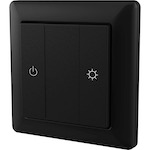
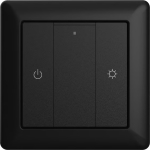
Consolidate Namorn wall remote documentation (#2023)
* Consolidate Namorn wall remote documentation.
Add notes on pairing and factory reset
Fix images

* Resize to 150x150

diff --git a/docs/devices/4512702.md b/docs/devices/4512702.md
@@ -28,11 +28,11 @@ pageClass: device-page
 1. Remove the remote from previous zigbee network if it has already been added to it, otherwise pairing will fail. Please refer to the part "Factory Reset".
 2. From your zigbee controller or hub interface, choose to add device or accessory and enter Pairing mode as instructed by the controller.
 3. Press and hold down top two buttons (channel 1 ON and OFF) until LED indicator turns on.
-4. Immediately short press to search nearby network, indicator flashes every 1 second, 20 seconds timeout if there is no network. Indicator will then blink 5 times quickly for successful pairing.
+4. Immediately short press the top right button (channel 1 OFF) to search nearby network, indicator flashes every 1 second, 20 seconds timeout if there is no network. Indicator will then blink 5 times quickly for successful pairing.
 
 ### Factory Reset 
 1. Press and hold down top two buttons (channel 1 ON and OFF) until LED indicator turns on
-2. Immediately short press 5 times continuously, indicator flashes 3 times quickly to indicate successful reset.
+2. Immediately short press the top left button (channel 1 ON) 5 times continuously, indicator flashes 3 times quickly to indicate successful reset.
 <!-- Notes END: Do not edit below this line -->
 
 

diff --git a/docs/devices/4512703.md b/docs/devices/4512703.md
@@ -23,8 +23,16 @@ pageClass: device-page
 
 
 <!-- Notes BEGIN: You can edit here. Add "## Notes" headline if not already present. -->
+## Notes
+### Pairing
+1. Remove the remote from previous zigbee network if it has already been added to it, otherwise pairing will fail. Please refer to the part "Factory Reset".
+2. From your zigbee controller or hub interface, choose to add device or accessory and enter Pairing mode as instructed by the controller.
+3. Press and hold down top two buttons (channel 1 ON and OFF) until LED indicator turns on.
+4. Immediately short press the top right button (channel 1 OFF) to search nearby network, indicator flashes every 1 second, 20 seconds timeout if there is no network. Indicator will then blink 5 times quickly for successful pairing.
 
-
+### Factory Reset 
+1. Press and hold down top two buttons (channel 1 ON and OFF) until LED indicator turns on
+2. Immediately short press the top left button (channel 1 ON) 5 times continuously, indicator flashes 3 times quickly to indicate successful reset.
 <!-- Notes END: Do not edit below this line -->
 
 ## OTA updates

diff --git a/docs/devices/4512719.md b/docs/devices/4512719.md
@@ -23,8 +23,16 @@ pageClass: device-page
 
 
 <!-- Notes BEGIN: You can edit here. Add "## Notes" headline if not already present. -->
+## Notes
+### Pairing
+1. Remove the remote from previous zigbee network if it has already been added to it, otherwise pairing will fail. Please refer to the part "Factory Reset".
+2. From your zigbee controller or hub interface, choose to add device or accessory and enter Pairing mode as instructed by the controller.
+3. Press and hold down top two buttons (channel 1 ON and OFF) until LED indicator turns on.
+4. Immediately short press the top right button (channel 1 OFF) to search nearby network, indicator flashes every 1 second, 20 seconds timeout if there is no network. Indicator will then blink 5 times quickly for successful pairing.
 
-
+### Factory Reset 
+1. Press and hold down top two buttons (channel 1 ON and OFF) until LED indicator turns on
+2. Immediately short press the top left button (channel 1 ON) 5 times continuously, indicator flashes 3 times quickly to indicate successful reset.
 <!-- Notes END: Do not edit below this line -->
 
 ## OTA updates

diff --git a/docs/devices/4512721.md b/docs/devices/4512721.md
@@ -23,8 +23,16 @@ pageClass: device-page
 
 
 <!-- Notes BEGIN: You can edit here. Add "## Notes" headline if not already present. -->
+## Notes
+### Pairing
+1. Remove the remote from previous zigbee network if it has already been added to it, otherwise pairing will fail. Please refer to the part "Factory Reset".
+2. From your zigbee controller or hub interface, choose to add device or accessory and enter Pairing mode as instructed by the controller.
+3. Press and hold down top two buttons (channel 1 ON and OFF) until LED indicator turns on.
+4. Immediately short press the top right button (channel 1 OFF) to search nearby network, indicator flashes every 1 second, 20 seconds timeout if there is no network. Indicator will then blink 5 times quickly for successful pairing.
 
-
+### Factory Reset 
+1. Press and hold down top two buttons (channel 1 ON and OFF) until LED indicator turns on
+2. Immediately short press the top left button (channel 1 ON) 5 times continuously, indicator flashes 3 times quickly to indicate successful reset.
 <!-- Notes END: Do not edit below this line -->
 
 ## OTA updates

diff --git a/docs/devices/4512729.md b/docs/devices/4512729.md
@@ -23,8 +23,16 @@ pageClass: device-page
 
 
 <!-- Notes BEGIN: You can edit here. Add "## Notes" headline if not already present. -->
+## Notes
+### Pairing
+1. Remove the remote from previous zigbee network if it has already been added to it, otherwise pairing will fail. Please refer to the part "Factory Reset".
+2. From your zigbee controller or hub interface, choose to add device or accessory and enter Pairing mode as instructed by the controller.
+3. Press and hold down top two buttons (channel 1 ON and OFF) until LED indicator turns on.
+4. Immediately short press the top right button (channel 1 OFF) to search nearby network, indicator flashes every 1 second, 20 seconds timeout if there is no network. Indicator will then blink 5 times quickly for successful pairing.
 
-
+### Factory Reset 
+1. Press and hold down top two buttons (channel 1 ON and OFF) until LED indicator turns on
+2. Immediately short press the top left button (channel 1 ON) 5 times continuously, indicator flashes 3 times quickly to indicate successful reset.
 <!-- Notes END: Do not edit below this line -->
 
 ## OTA updates

diff --git a/docs/devices/4512701.md b/docs/devices/4512701.md
@@ -23,8 +23,16 @@ pageClass: device-page
 
 
 <!-- Notes BEGIN: You can edit here. Add "## Notes" headline if not already present. -->
+## Notes
+### Pairing
+1. Remove the remote from previous zigbee network if it has already been added to it, otherwise pairing will fail. Please refer to the part "Factory Reset".
+2. From your zigbee controller or hub interface, choose to add device or accessory and enter Pairing mode as instructed by the controller.
+3. Press and hold down both buttons until LED indicator turns on.
+4. Immediately short press the right button to search nearby network, indicator flashes every 1 second, 20 seconds timeout if there is no network. Indicator will then blink 5 times quickly for successful pairing.
 
-
+### Factory Reset 
+1. Press and hold down both buttons until LED indicator turns on
+2. Immediately short press the left button 5 times continuously, indicator flashes 3 times quickly to indicate successful reset.
 <!-- Notes END: Do not edit below this line -->
 
 
